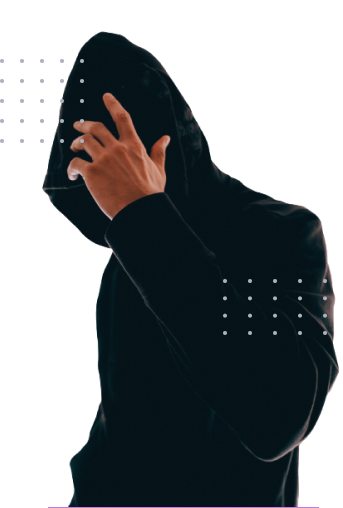
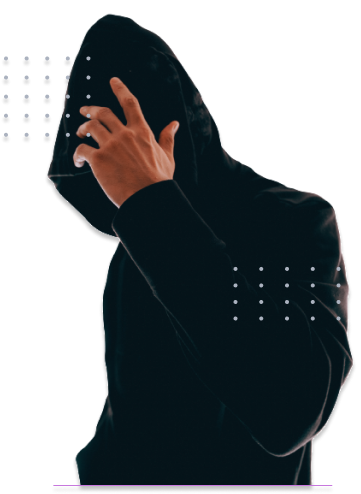
add component about and softskill & responsive

diff --git a/src/pages/About/AboutPage.jsx b/src/pages/About/AboutPage.jsx
@@ -1,10 +1,88 @@
 import React from 'react';
 
+// components
+import MainSkill from '../../components/Skills/MainSkill';
+import SoftSkill from './SoftSkill';
+
+// shared
+import HeadPage from '../../components/shared/HeadPage/HeadPage';
+import HeadComponent from '../../components/shared/HeadComponent/HeadComponent'
+
+// img
+import aboutImg from '../../assets/img/aboutimg.png'
+import rectangleGross from '../../assets/svg/RectangleGross.svg';
+import dotrec from '../../assets/svg/dotrec.svg'
+import dots from '../../assets/img/dots.png'
+
 const AboutPage = () => {
+    const skills = [
+        { id: 1, headSkill: 'Databases', bodySkill: 'SQLite PostgreSQL Mongo' },
+        { id: 2, headSkill: 'Languages', bodySkill: 'TypeScript lua Python Javascript' },
+        { id: 3, headSkill: 'Tools', bodySkill: 'VSCode Neovim Linux Git Front Awesome Gitlab Photoshop' },
+        { id: 4, headSkill: 'Other', bodySkill: 'HTML CSS EJS SCSS Rest Jinja' },
+        { id: 5, headSkill: 'Frameworks', bodySkill: 'React Vue Disnake Discord Flast Express' }
+    ]
+
+    const softSkills = [
+        {id: 1, skills: 'I often bike with my friends'},
+        {id: 2, skills: 'I often bike with my friends'},
+        {id: 3, skills: 'I often bike with my friends'},
+        {id: 4, skills: 'I often bike with my friends'},
+        {id: 5, skills: 'I often bike with my friends'},
+        {id: 6, skills: 'I often bike with my friends'},
+        {id: 7, skills: 'I often bike with my friends'}
+    ]
     return (
-        <div>
-            AboutPage
-        </div>
+        <section className='relative overflow-hidden mt-12'>
+            <img src={dots} alt='dots' className='absolute -left-6 top-52 hidden lg:block' />
+            <img src={rectangleGross} alt='rectangle' className='absolute rotate-180 -left-5 bottom-36 hidden lg:block' />
+            <img src={rectangleGross} alt='rectangle' className='absolute right-0 top-28 hidden lg:block' />
+            <img src={dots} alt='dots' className='absolute -right-5 bottom-96 hidden lg:block' />
+            <div className='container'>
+                <HeadPage pageName='about-me' descPage='Who am i?' />
+                <div className='mb-12 mt-16'>
+                    <div className='flex flex-wrap items-center'>
+                        <div className='w-full md:w-3/5'>
+                            <p>Hello, i’m Elias!</p>
+                            <p className='py-10'>
+                                I’m a self-taught front-end developer based in Kyiv, Ukraine.
+                                I can develop responsive websites from scratch and raise them
+                                into modern user-friendly web experiences.
+                            </p>
+                            <p className='mb-9'>
+                                Transforming my creativity and knowledge into a websites has been my passion for over a year.
+                                I have been helping various clients to establish their presence online.
+                                I always strive to learn about the newest technologies and frameworks.
+                            </p>
+                        </div>
+                        <div className='w-full md:w-2/5 flex justify-center md:justify-end'>
+                            <img src={aboutImg} alt='img' className='' />
+                        </div>
+                    </div>
+                </div>
+                <div className='mt-28'>
+                    <HeadComponent nameComponent='skills' lineHidden='hidden' hidden='hidden' />
+                    <div className='w-full flex flex-wrap justify-between items-start mt-12 gap-y-2 sm:gap-4'>
+                        {skills.map(skill => (
+                            <MainSkill key={skill.id} {...skill} />
+                        ))}
+                    </div>
+                    <div className='mt-20'>
+                        <HeadComponent nameComponent='soft-skills' lineHidden='hidden' hidden='hidden' />
+                        <div className='flex flex-wrap justify-center lg:justify-between items-start mt-7'>
+                            <div className='lg:flex-1 flex flex-wrap gap-4'>
+                                {softSkills.map(skills => (
+                                    <SoftSkill key={skills.id} {...skills} />
+                                ))}
+                            </div>
+                            <div className='mt-12 lg:mt-0 lg:flex-0'>
+                                <img src={dotrec} alt='dots' />
+                            </div>
+                        </div>
+                    </div>
+                </div>
+            </div>
+        </section>
     );
 };
 

diff --git a/src/pages/Projects/ProjectsPage.jsx b/src/pages/Projects/ProjectsPage.jsx
@@ -2,6 +2,7 @@ import React from 'react';
 
 // components
 import MainProject from '../../components/Projects/MainProject';
+import SmallProject from './SmallProject';
 
 // shared
 import HeadPage from '../../components/shared/HeadPage/HeadPage';
@@ -9,7 +10,6 @@ import HeadComponent from '../../components/shared/HeadComponent/HeadComponent';
 
 // img
 import projectIMG from '../../assets/img/projectimg.jpg'
-import SmallProject from './SmallProject';
 import rectangleGross from '../../assets/svg/RectangleGross.svg';
 import dots from '../../assets/img/dots.png'
 
@@ -39,7 +39,7 @@ const ProjectsPage = () => {
             <img src={dots} alt='dots' className='absolute -right-5 bottom-96 hidden lg:block' />
         
             <div className='container'>
-                <HeadPage />
+                <HeadPage pageName='projects' descPage='List of my projects' />
                 <div className='mb-12 mt-16'>
                     <HeadComponent nameComponent='complete-apps' lineHidden='hidden' hidden='hidden' />
                 </div>
@@ -51,7 +51,7 @@ const ProjectsPage = () => {
                 <div className='mb-12 mt-20'>
                     <HeadComponent nameComponent='small-projects' lineHidden='hidden' hidden='hidden' />
                 </div>
-                <div className='flex flex-wrap gap-1 items-start justify-between mb-40'>
+                <div className='flex flex-wrap gap-1 items-start justify-between'>
                     {skills.map(skill => (
                         <SmallProject key={skill.id} {...skill} />
                     ))}

diff --git a/src/components/shared/HeadPage/HeadPage.jsx b/src/components/shared/HeadPage/HeadPage.jsx
@@ -1,13 +1,13 @@
 import React from 'react';
 
-const HeadPage = () => {
+const HeadPage = ({pageName, descPage}) => {
     return (
         <div>
             <h3 className='font-fira-600 text-white text-2xl sm:text-3xl'>
                 <span className='text-primary'>/</span>
-                Projects
+                {pageName}
             </h3>
-            <p className='mt-1.5'>List of my projects</p>
+            <p className='mt-1.5'>{descPage}</p>
         </div>
     );
 };

diff --git a/src/components/About/About.jsx b/src/components/About/About.jsx
@@ -18,7 +18,7 @@ const About = () => {
                 <div className='mb-12'>
                     <HeadComponent nameComponent='about-me' lineHidden='w-80' hidden='hidden' />
                 </div>
-                <div className='flex flex-wrap'>
+                <div className='flex flex-wrap items-center'>
                     <div className='w-full md:w-3/5'>
                         <p>Hello, i’m Elias!</p>
                         <p className='py-10'>

diff --git a/src/components/Skills/MainSkill.jsx b/src/components/Skills/MainSkill.jsx
@@ -2,7 +2,7 @@ import React from 'react';
 
 const MainSkill = ({ headSkill, bodySkill }) => {
     return (
-        <div className='border w-[49%] sm:w-44 border-gray'>
+        <div className='border w-full sm:w-44 border-gray'>
             <h4 className='border-b font-fira-600 p-2 border-gray text-white'>{headSkill}</h4>
             <p className='p-2'>{bodySkill}</p>
         </div>

diff --git a/src/pages/About/SoftSkill.jsx b/src/pages/About/SoftSkill.jsx
@@ -1,0 +1,11 @@
+import React from 'react';
+
+const SoftSkill = ({skills}) => {
+    return (
+        <div className='border p-2 w-fit border-gray'>
+            <p>{skills}</p>
+        </div>
+    );
+};
+
+export default SoftSkill;
